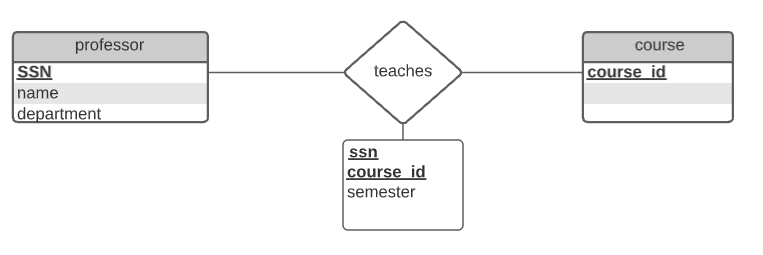
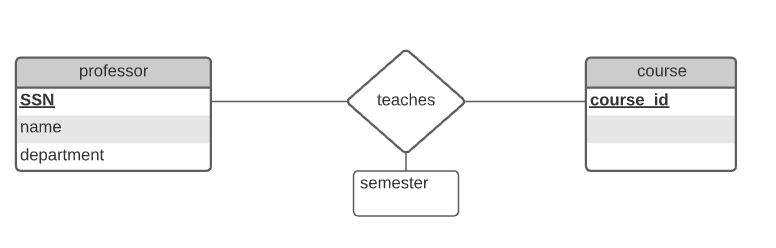
Modification des diagrammes 1 et 4

diff --git a/README.md b/README.md
@@ -9,8 +9,6 @@
 
 ![ERDiagram1](assets/er_01.png)
 
-En choisissant `ssn` et `course_id` comme clé primaire on s'assure que seul le semestre le plus récent sera enregisté.
-
 #### Exercice 2
 
 ![ERDiagram1](assets/er_02.png)
@@ -26,8 +24,6 @@ En choisissant `ssn` et `course_id` comme clé primaire on s'assure que seul le 
 #### Exercice 5 
 
 ![ERDiagram1](assets/er_05.png)
-
-En choisissant `ssn` , `course_id` et `semester` comme clé primaire on s'assure que tous les semestres  seront enregistrés.
 
 #### Exercice 6
 
